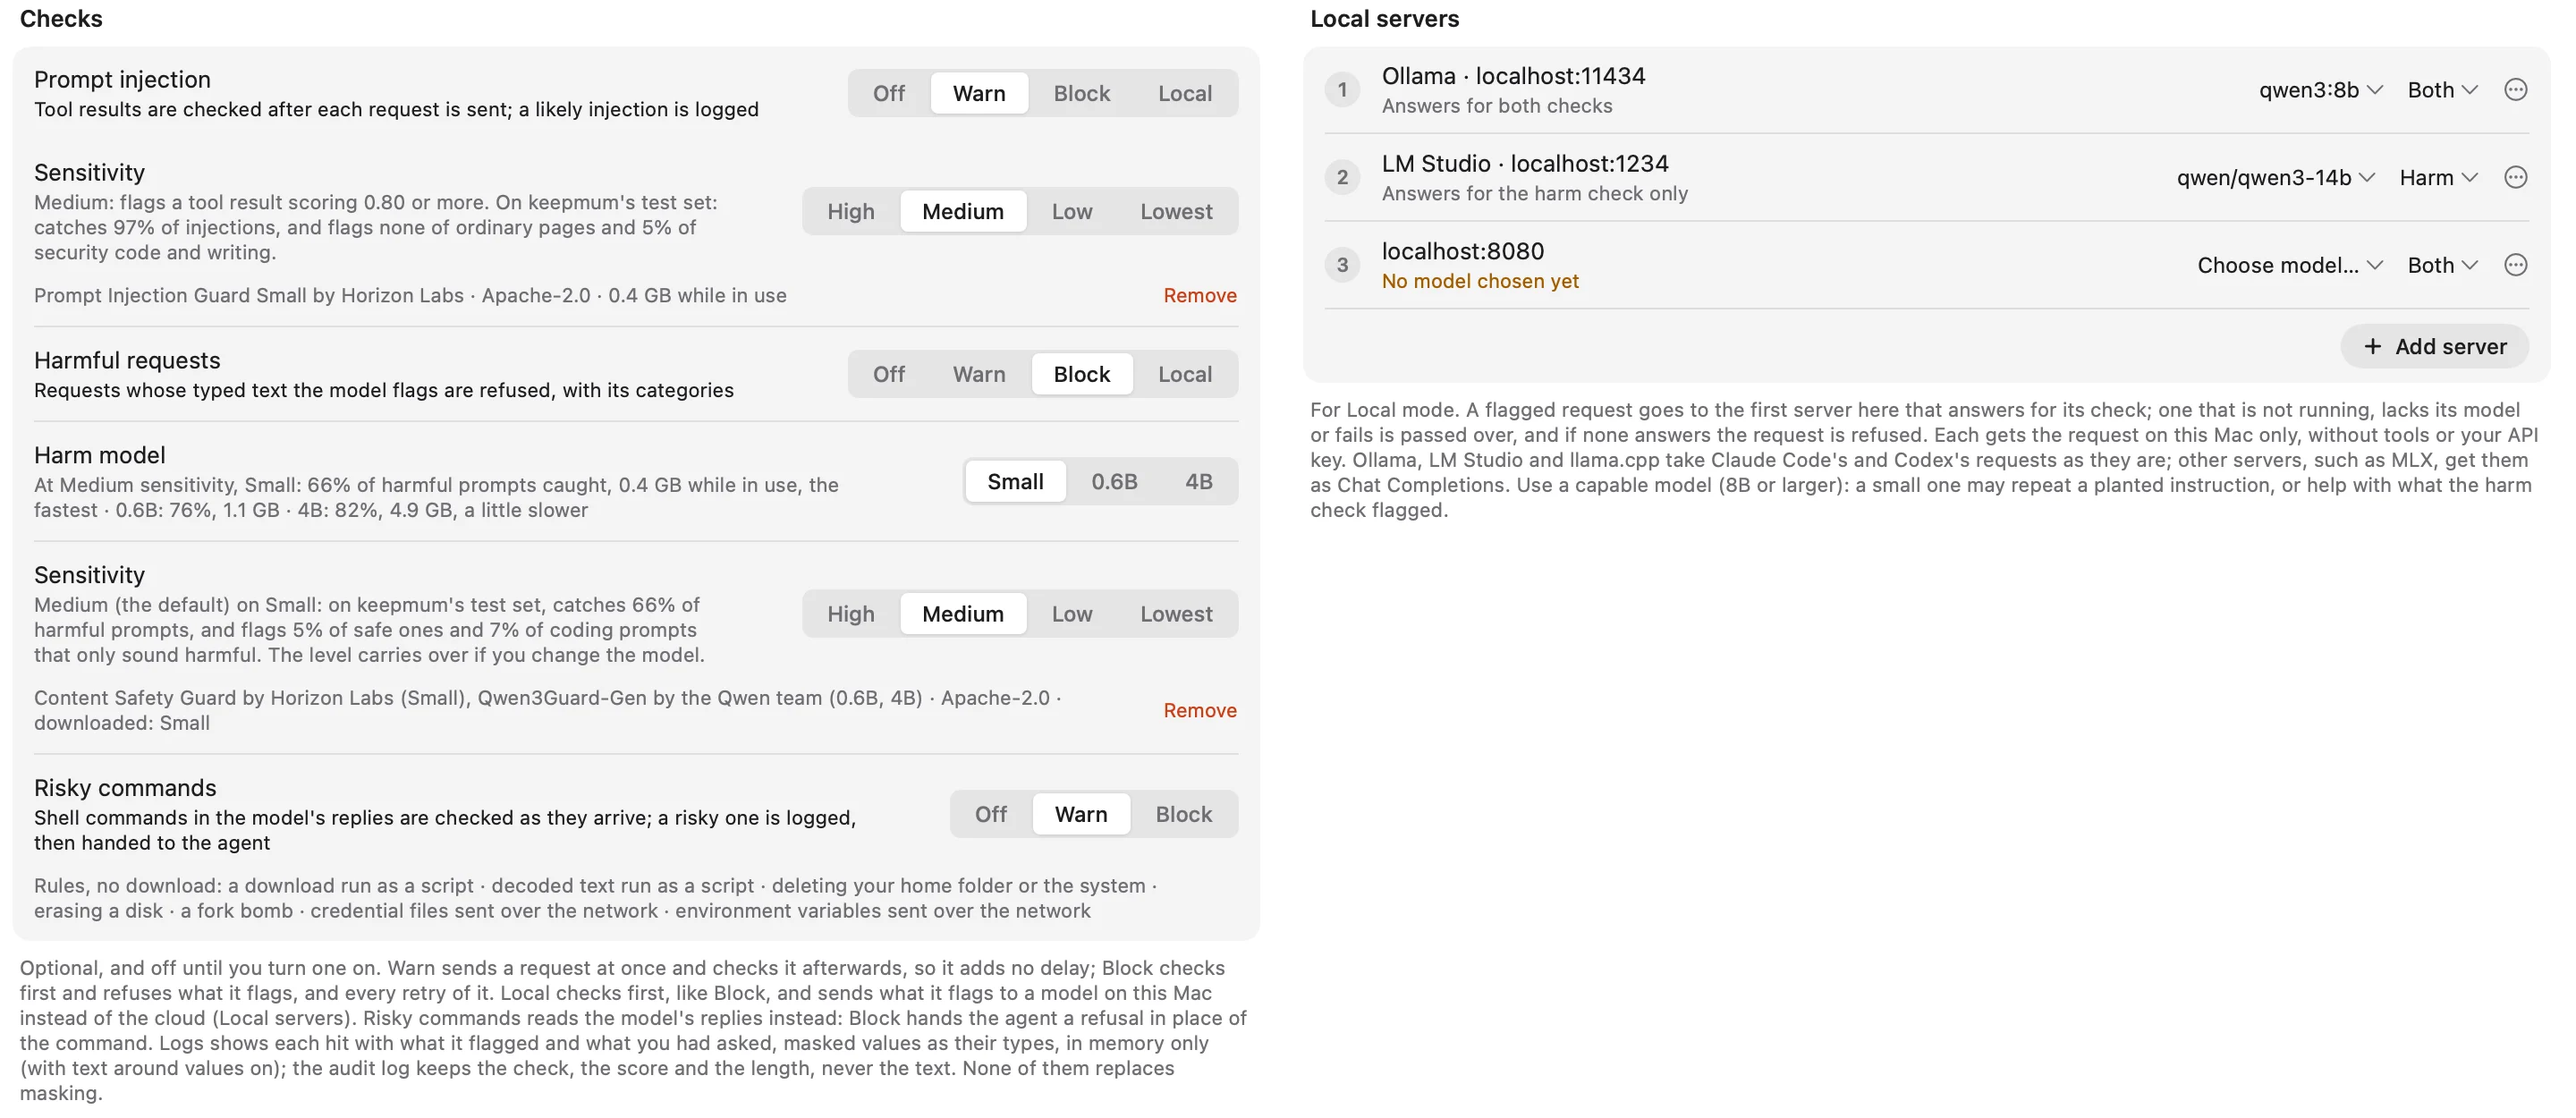
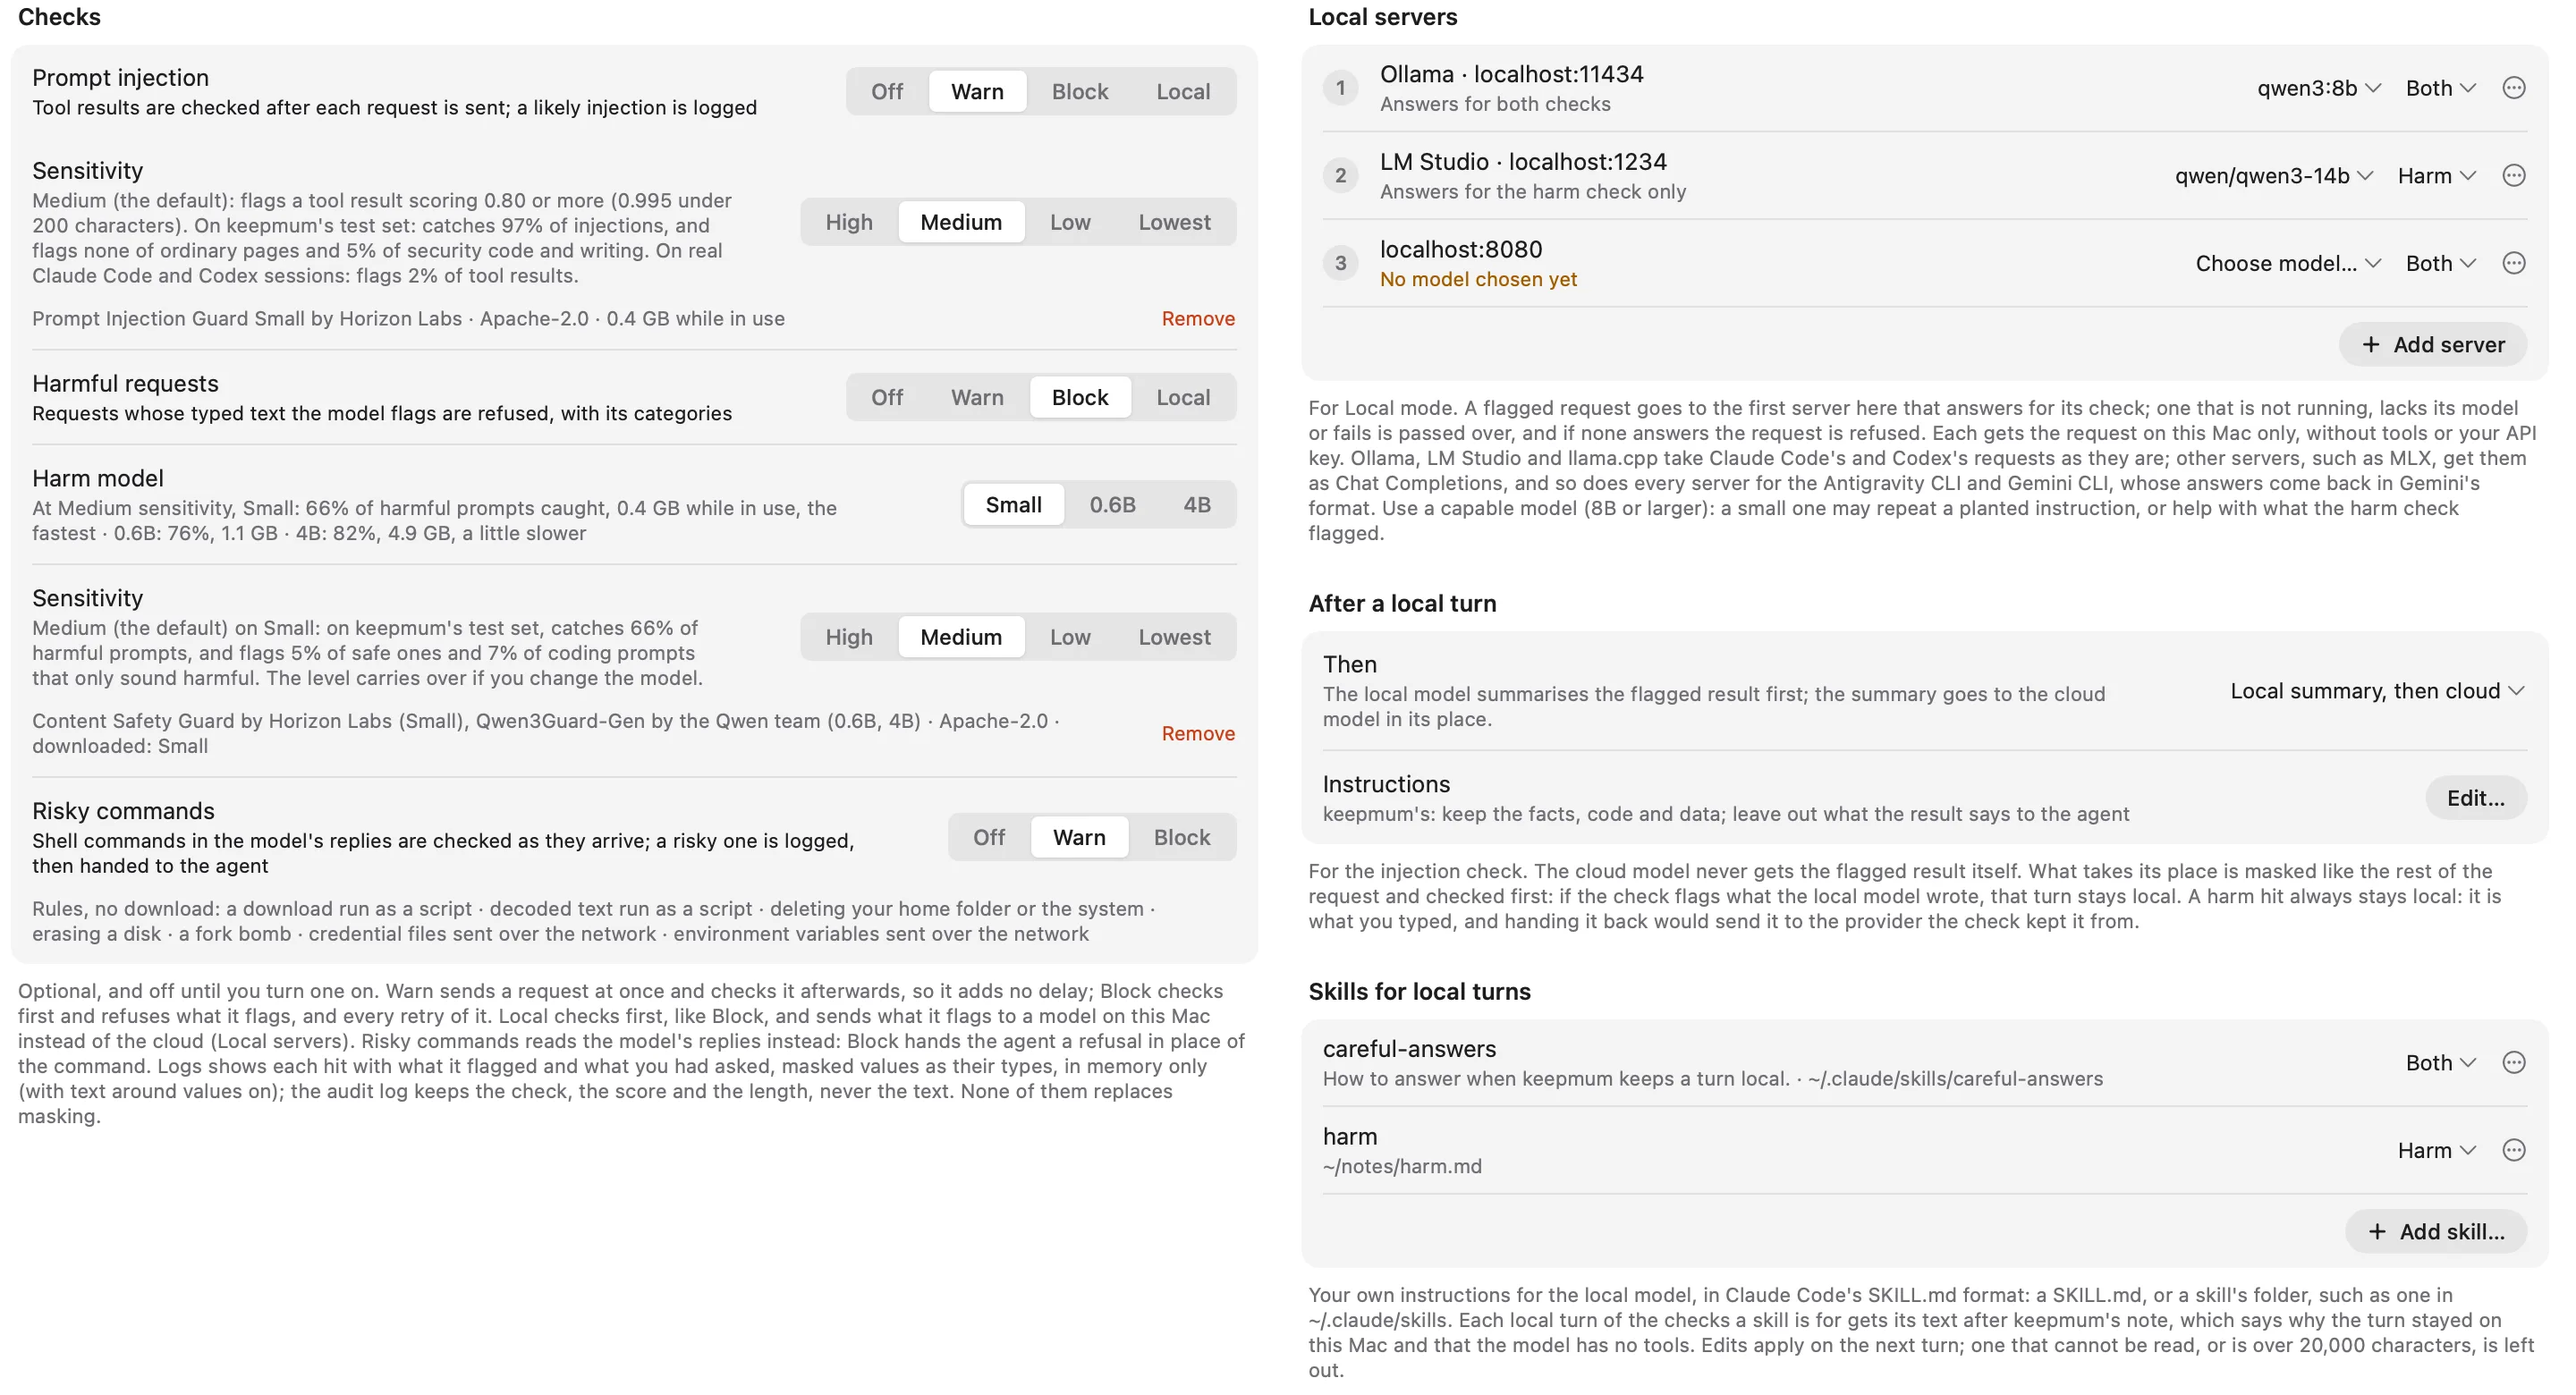
docs: skills, hand-back and local mode for every agent, on the website, the spec and the app's screenshots
- keepmum.app's checks section says Local works for every agent, agy and
  Gemini CLI included, takes your skills, and can hand the conversation back
  after a planted instruction; the injection numbers are Medium's (97% on the
  test set, 85% of AgentDojo, 1.7% of real tool results).
- New screenshots: Settings › Checks (After a local turn, Skills for local
  turns), Setup (the Antigravity CLI row), Extensions.
- The spec's milestones and layout, and mac/README's Checks entry, catch up.

diff --git a/site/index.html b/site/index.html
@@ -125,12 +125,12 @@
   <section id="checks" class="wrap section checks" aria-labelledby="checks-title">
     <div class="checks-head">
       <h2 id="checks-title">Three checks, if you want them.</h2>
-      <p class="intro">All off until you turn them on, and all on your Mac. Warn sends the request and logs a hit. Block refuses it. Local, for the first two, sends a flagged request to a model on your Mac instead of the provider, so your agent still gets an answer.</p>
+      <p class="intro">All off until you turn them on, and all on your Mac. Warn sends the request and logs a hit. Block refuses it. Local, for the first two, sends a flagged request to a model on your Mac instead of the provider, so your agent still gets an answer, with your own skills if you add them. It works with every agent here, the Antigravity CLI and Gemini CLI included. After a planted instruction, keepmum can also hand the conversation back: the local model summarises or rewrites what was flagged, or keepmum withholds it, and the cloud model carries on without ever seeing the original.</p>
     </div>
     <div class="cols">
       <div class="feature">
         <h3>Prompt injection</h3>
-        <p>Checks what tools bring back (web pages, files, shell output, MCP replies) for instructions planted for your agent. On the benchmark it caught every injected document and flagged 3% of ordinary ones.</p>
+        <p>Checks what tools bring back (web pages, files, shell output, MCP replies) for instructions planted for your agent. At the default level it catches 97% of injected documents on keepmum’s test set and 85% of AgentDojo’s attacks, and flags 1.7% of tool results in real Claude Code and Codex sessions.</p>
       </div>
       <div class="feature">
         <h3>Harmful requests</h3>
@@ -141,7 +141,7 @@
         <p>Checks the shell commands a reply asks your agent to run: a download piped into a shell, deleting your home folder, erasing a disk, credentials sent over the network. Seven rules, no download.</p>
       </div>
     </div>
-    <figure class="shot"><img src="img/checks.webp" width="2880" height="1250" alt="keepmum’s Checks settings: each check off, warn, block or local, and the local servers that answer flagged requests" loading="lazy"></figure>
+    <figure class="shot"><img src="img/checks.webp" width="2880" height="1560" alt="keepmum’s Checks settings: each check off, warn, block or local, the local servers that answer flagged requests, what follows a local turn, and skills for local turns" loading="lazy"></figure>
   </section>
 
   <section id="extensions" class="wrap section checks" aria-labelledby="extensions-title">

diff --git a/docs/SPEC.md b/docs/SPEC.md
@@ -1,6 +1,6 @@
 # keepmum — Local Secret & PII Redaction for Coding Agents (Build Spec)
 
-Oct 25, 2026 · @Yujia Lin · updated Oct 29, 2026 for Codex, pi and opencode, pf-serve, the Mac app, and the rules without the model; Nov 3, 2026 for Gemini CLI, other gateways, the guards on restore, and the first alpha
+Oct 25, 2026 · @Yujia Lin · updated Oct 29, 2026 for Codex, pi and opencode, pf-serve, the Mac app, and the rules without the model; Nov 3, 2026 for Gemini CLI, other gateways, the guards on restore, and the first alpha; Nov 10, 2026 for local mode's skills and hand-back, local mode for Gemini's API, and the Antigravity CLI
 
 ## Summary
 
@@ -282,6 +282,7 @@ keepmum/
     harm.py         # the harm check (and qwen3guard_prompt.py)
     commands.py     # the risky-commands check on replies
     local.py        # local mode: a flagged request answered on this Mac
+    handback.py     # local mode: handing the conversation back to the cloud after an injection hit
     llamacpp.py     # llama-server, the checks' runtime
     launch.py       # `keepmum claude`, the VS Code wrapper, background server
     detect/
@@ -319,6 +320,8 @@ keepmum/
 - [x] **Web addresses in replies (Nov 2, 2026).** A placeholder inside an http(s) address in reply text stays a placeholder, so a rendered image or link cannot carry a value out; see Restore. Verified with Claude Code: the text got the real value, the image address the placeholder.
 - [x] **Shell destinations (Nov 3, 2026).** A token whose issuer is known stays a placeholder in a shell command that names another host (`destinations.py`, Open questions). Verified with Claude Code running two curl commands: attacker.test received the placeholder, api.github.com the token. Cases: `docs/test-cases/shell-destinations.md`.
 - [x] **Optional checks (Nov 4–5, 2026).** Off by default, each warn or block: prompt injection in tool results (`guard.py`, Prompt Injection Guard Small as a GGUF keepmum converted and hosts; `bench/results/GUARD.md`), harmful requests in what the user typed (`harm.py`, Content Safety Guard Small, or Qwen3Guard-Gen 0.6B or 4B; `bench/results/HARM.md`), both in llama-server on Metal and downloaded only by `keepmum guard setup`; and risky shell commands in the model's replies (`commands.py`, seven rules, no model). Local mode (injection and harm) answers a flagged request with a model on this Mac (`local.py`; Ollama, LM Studio, llama.cpp, or Chat Completions for others), tried in order, never sent to the provider. Hits are logged, counted and audited with the check, score and length, never the text; the Mac app shows them in the flow diagram, Activity and Logs. The README has the details.
+- [x] **Local mode, further (Nov 9–10, 2026).** Skills for local turns (`[guard] local_skills`: SKILL.md files the local model gets after keepmum's note, read on every turn). Handing back to the cloud after an injection hit (`handback.py`, `[guard] local_handback`): stay, or replace the flagged result with the local model's answer, summary or rewrite (keepmum's instruction or the user's) or a notice; what the local model writes is checked on its own before it goes, and keepmum's own wording around it is not scored (it reads like an injection to the model, 0.99). Gemini's API (the Antigravity CLI, Gemini CLI) goes local as Chat Completions, its answer back as a GenerateContentResponse, plain or wrapped for Code Assist, streamed or whole. Verified with real agents (`e2e/cases/local-*`): Claude Code, Codex and agy, scripted and live, with the real injection model and Ollama; the runs found that keepmum's wording was flagged and that Codex's `additional_tools` input item made Ollama refuse the request.
+- [x] **The Antigravity CLI (Nov 10, 2026).** Gemini CLI stopped serving personal Google sign-ins on June 18, 2026, moving them to agy. The extension watch reads agy's MCP servers, hooks, plugins, rules and skills (`~/.gemini/config`), with a first look per agent, so an update does not report what agy already had as new. The Mac app has a row for `keepmum agy`.
 - [ ] **M6 Ship.** README, Homebrew tap, name check on GitHub, PyPI and Homebrew. *Oct 26, 2026: Keepmum.app is self-contained (bundled Python runtime, pf-serve, a LaunchAgent via SMAppService) and sets itself up: model download, background service, `keepmum protect`. Nov 3, 2026: signed with Developer ID, notarized, and released as a DMG on GitHub Releases, [0.1.0a1](https://github.com/blueandhack/keepmum/releases/tag/v0.1.0a1) (pre-release). Nov 5, 2026: [0.1.0a2](https://github.com/blueandhack/keepmum/releases/tag/v0.1.0a2), the first that updates itself (Sparkle, a signed feed, asked on first launch). Left: a Homebrew cask, PyPI, and Windows (pf-serve already builds there; the app would need its own UI).*
 
 ## Audit log

diff --git a/mac/README.md b/mac/README.md
@@ -14,7 +14,7 @@ A menu-bar app that sets keepmum up, runs it in the background and shows what it
   - **Setup:** download the model, start the background service, and one protection switch per coding agent.
   - **Masking:** mode (mask, or observe only), detector (the rules and the local model, or the rules alone: `keepmum model`), personal data (names, emails, phones and addresses too: `keepmum pii`), and excluded projects (`keepmum exclude`).
   - **Tools:** each MCP server and web tool agents offered, and what it may receive: placeholders only, the values it gave you, or also contact details. A server whose tools changed is paused until you trust it again, and calls this week that kept placeholders a setting would let through get a suggestion (`keepmum tools`). Shell commands: hosts a shell command may send a rule's tokens to, besides its issuer's, such as a company GitLab; adding one asks first (`keepmum destinations`).
-  - **Checks:** the optional prompt-injection, harm and risky-commands checks: download, Off, Warn or Block each (injection and harm also Local: a flagged request is answered by a model on your Mac instead of being sent), the harm model (Small, Qwen3Guard 0.6B or 4B), and beside them **Local servers**: Ollama, LM Studio, llama.cpp, MLX or another server on this Mac, in the order tried, each with its model, chosen from what it has, and the checks it answers for (`keepmum guard`, `keepmum guard local`).
+  - **Checks:** the optional prompt-injection, harm and risky-commands checks: download, Off, Warn or Block each (injection and harm also Local: a flagged request is answered by a model on your Mac instead of being sent, for every agent, the Antigravity CLI and Gemini CLI included), the harm model (Small, Qwen3Guard 0.6B or 4B), and beside them **Local servers**: Ollama, LM Studio, llama.cpp, MLX or another server on this Mac, in the order tried, each with its model, chosen from what it has, and the checks it answers for (`keepmum guard`, `keepmum guard local`); **After a local turn**: stay on the local model, or hand the conversation back to the cloud with the flagged result replaced by the local model's answer, summary or rewrite (with your own instructions, if you write them) or by a notice (`keepmum guard local handback`); and **Skills for local turns**: SKILL.md files the local model gets after keepmum's note, for both checks or one (`keepmum guard local skill`).
   - **Extensions:** the plugins, plugin marketplaces, hooks, MCP servers, skills and global instruction files in each coding agent's settings, with what appeared since you last looked first, and items that can put instructions in front of the model marked. **Keep** what you added; **Remove…** takes one entry out of its file after a backup (`keepmum extensions`).
   - **General:** display (appearance, Dock, preview data), updates (check now, check automatically once a day, download and install automatically), the Logs page (value previews and the text around values: `keepmum log`), and connection details.
   - **Check this Mac:** `keepmum doctor`.
